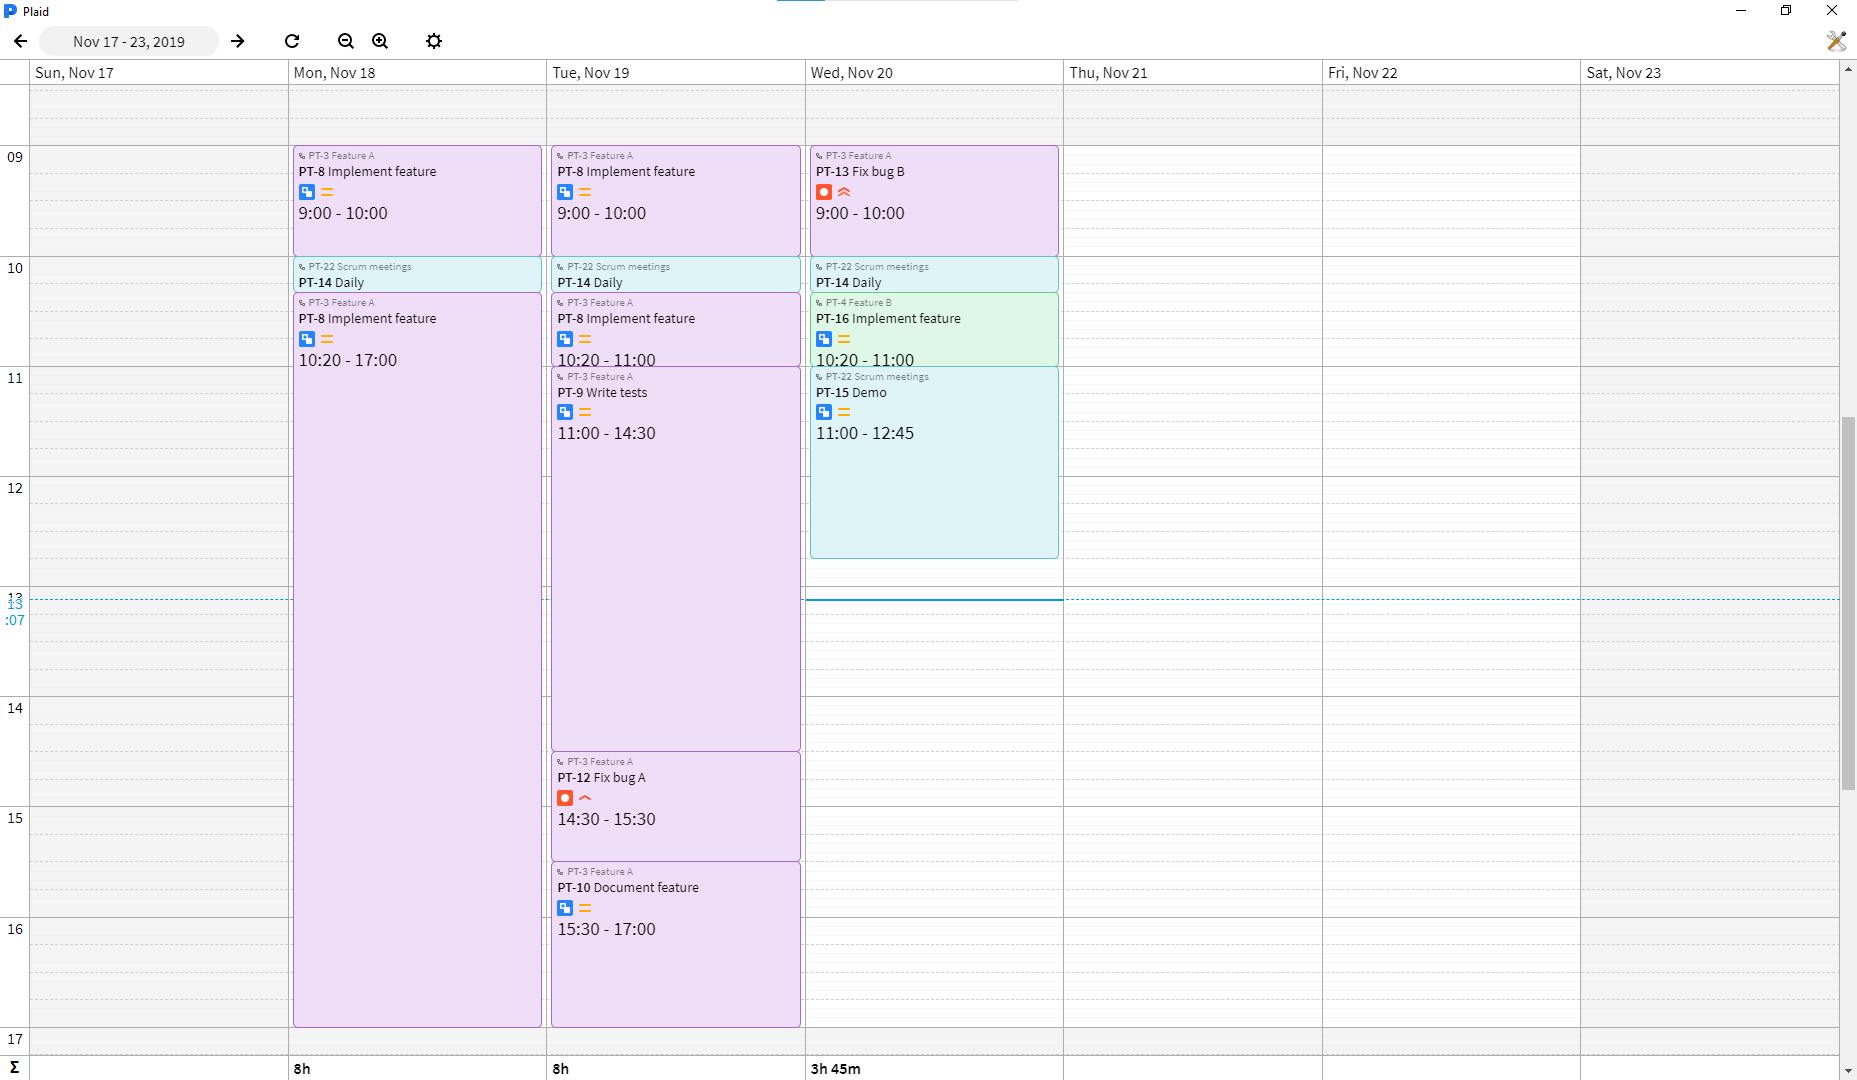
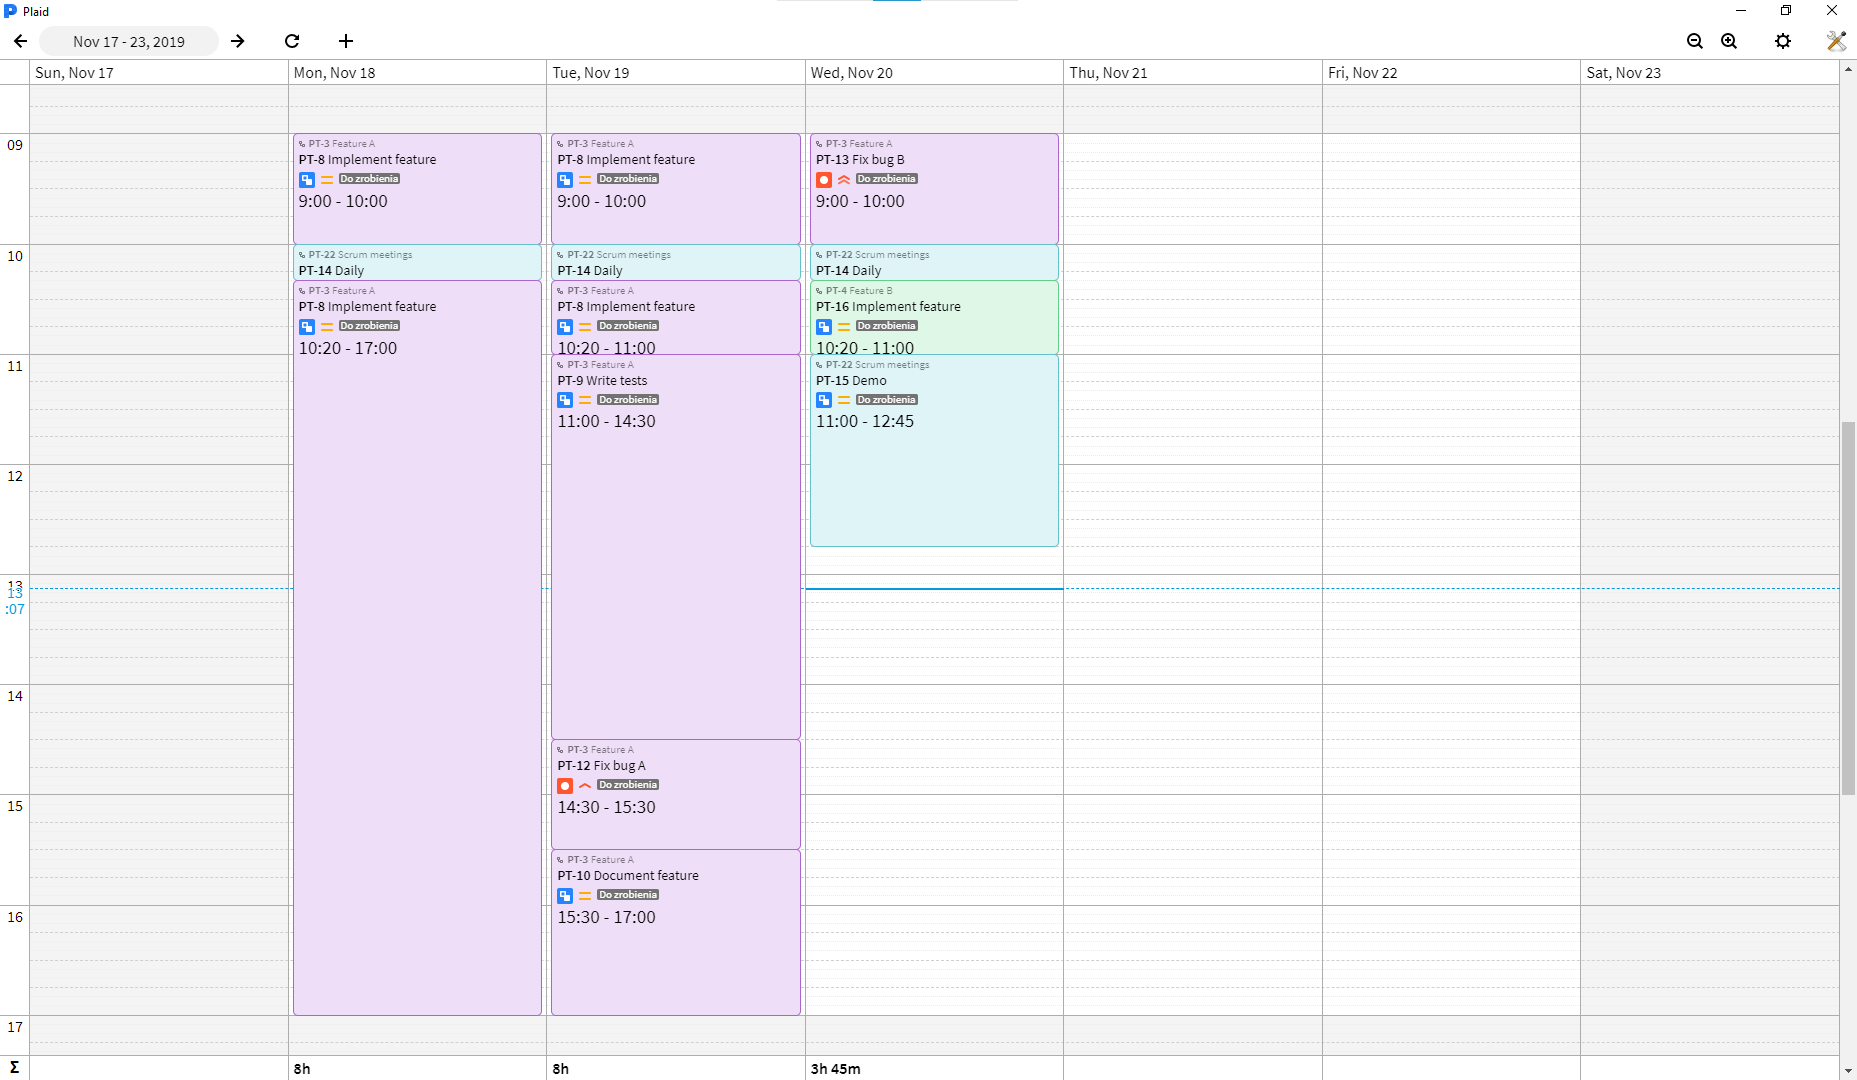
Updated screenshot, changelog

diff --git a/changelog.md b/changelog.md
@@ -3,12 +3,13 @@
 ## 1.0
 
 - added the ability to add new worklog entries
-- added the alibity to delete existing worklog entriess
+- added the alibity to delete existing worklog entries
 - keyboard navigation in worklog entry editor form is now possible
 - worklog entry editor now has issue picker (for new entries only) which features:
   - ability to browse through issues, which were recently added or had recently changed status,
   - selecting, adding and removing favorites
   - searching by string in issue text or by issue key
+- added issue status to worklog entry panel
 - reorganized top bar
 - updated dependencies 
 
